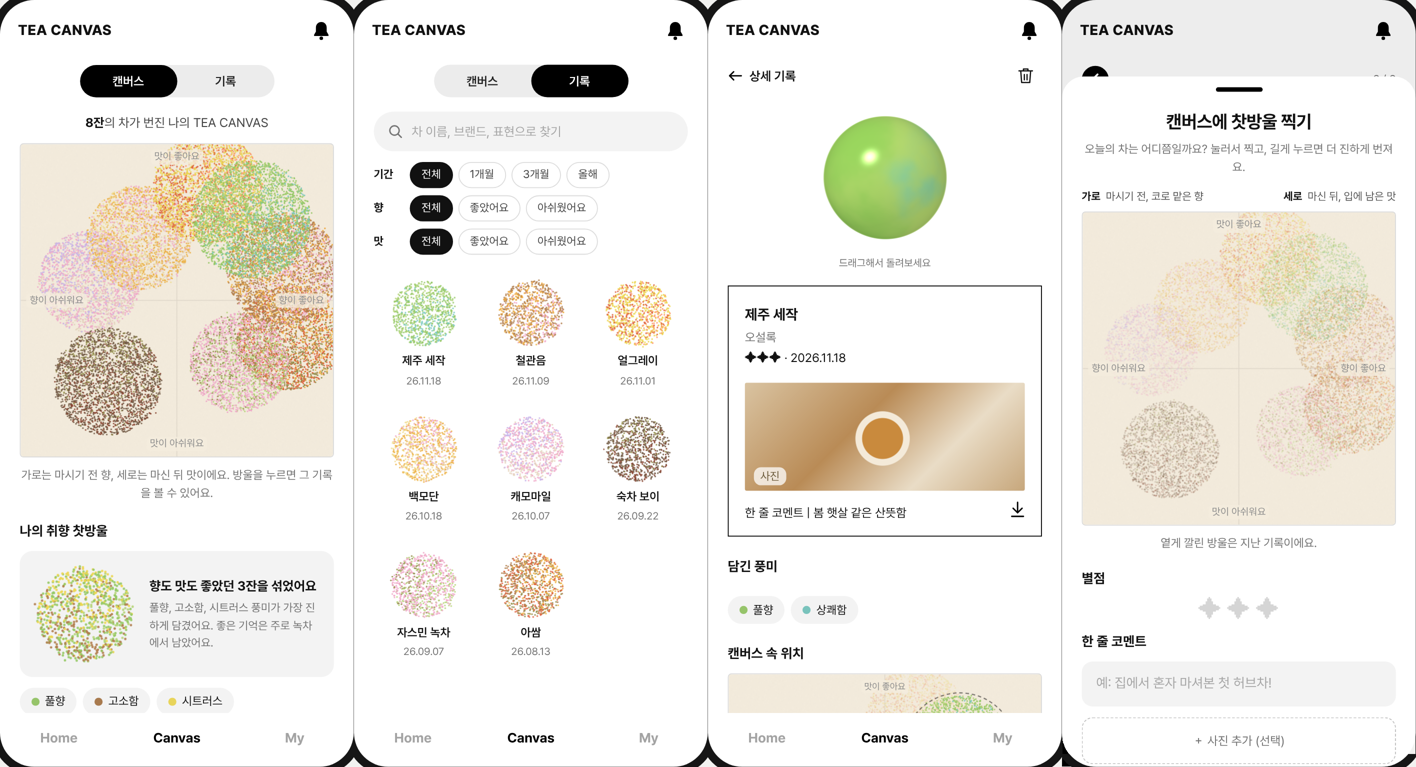
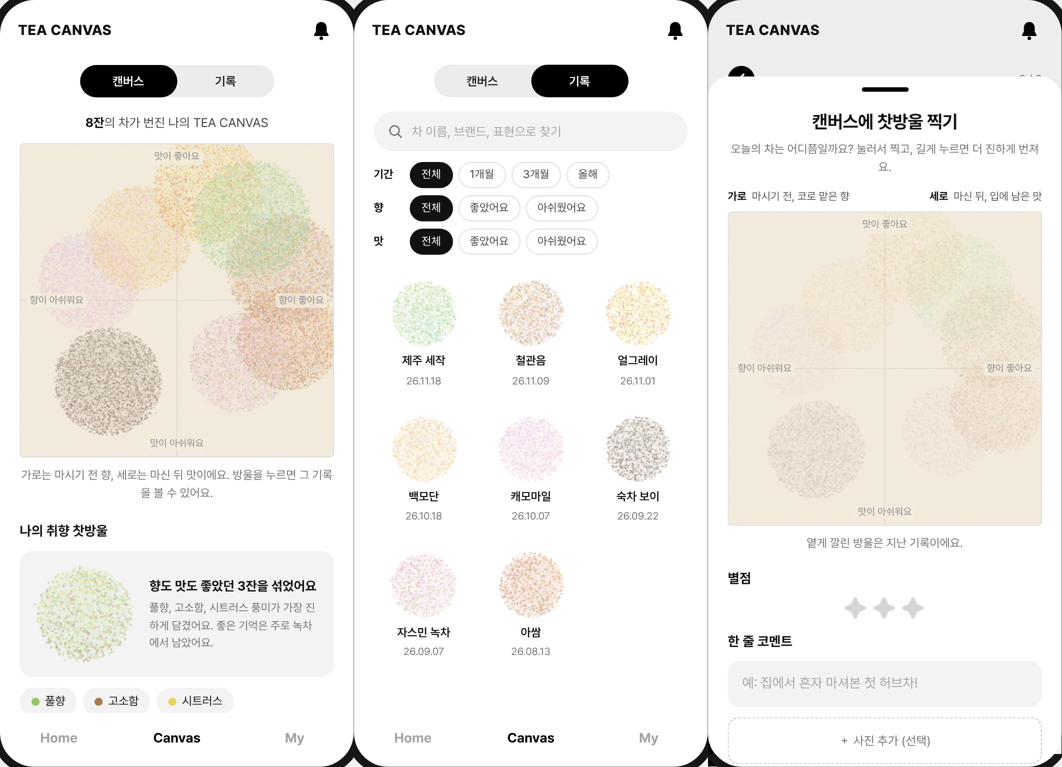
v3: 찻방울을 물처럼 투명하게 — 색을 밝게, 점은 반투명, 아래에 옅은 물빛
Claude-Session: https://claude.ai/code/session_01VYi7RYbVTTHX5Zvyr9oi23

diff --git a/TEA_CANVAS_prototype_v3.html b/TEA_CANVAS_prototype_v3.html
@@ -690,6 +690,8 @@ const WC = (()=>{
    점마다 그 자리의 색 비중대로 색을 고른다: 강한 색은 가운데, 약한 색은 가장자리. 흐림 없음.
    ========================================================= */
 const CANVAS_BG='#F4ECDD';
+/* 물처럼 투명하게: 색을 밝게 들어 올리고, 점은 반투명, 아래에 아주 옅은 물빛을 깐다 */
+const WATER={lift:.28,sat:1.05,dotA:.42,wash:.16};
 const DD=(()=>{
   const hex=h=>{ const n=parseInt(h.slice(1),16); return [(n>>16&255)/255,(n>>8&255)/255,(n&255)/255]; };
   const lift=(c,l=.04,s=1.15)=>{ const L=.2126*c[0]+.7152*c[1]+.0722*c[2]; return c.map(v=>{ v=Math.max(0,Math.min(1,L+(v-L)*s)); return v+(1-v)*l; }); };
@@ -698,8 +700,8 @@ const DD=(()=>{
   function zones(drop){
     if(ZC.has(drop.id)) return ZC.get(drop.id);
     const r=WC.rng(WC.hash(drop.id+'z')), tot=drop.comps.reduce((s,c)=>s+c.w,0), cs=[...drop.comps].sort((a,b)=>b.w-a.w), a0=r()*6.283;
-    const Z=cs.map((c,i)=>{ const share=c.w/tot, col=css(lift(hex(c.c))); if(i===0) return {col,share,x:0,y:0,s:.7};
-      const a=a0+(i-1)*6.283/Math.max(1,cs.length-1)+(r()-.5)*.6, d=.4*(1-share*.8); return {col,share,x:Math.cos(a)*d,y:Math.sin(a)*d,s:.55*(.7+share)}; });
+    const Z=cs.map((c,i)=>{ const share=c.w/tot, rgb=lift(hex(c.c),WATER.lift,WATER.sat), col=css(rgb); if(i===0) return {col,rgb,share,x:0,y:0,s:.7};
+      const a=a0+(i-1)*6.283/Math.max(1,cs.length-1)+(r()-.5)*.6, d=.4*(1-share*.8); return {col,rgb,share,x:Math.cos(a)*d,y:Math.sin(a)*d,s:.55*(.7+share)}; });
     ZC.set(drop.id,Z); return Z;
   }
   // 점 목록(반지름 1 기준) — 기록마다 늘 같은 모양
@@ -717,7 +719,13 @@ const DD=(()=>{
   function draw(ctx,drop,cx,cy,R,prog=1,alpha=1,dot=null){
     const d=dot||Math.max(.7,ctx.canvas.width*.0026), N=Math.max(60,Math.min(9000,Math.round(R*R/(d*d)*.62))), P=points(drop,N);
     const e=1-Math.pow(1-Math.min(1,prog),3);
-    ctx.save(); ctx.globalAlpha=.9*alpha;
+    const Z=zones(drop), e0=prog<1?(.6+.4*e):1;
+    // 물빛: 방울 자리에 찻물 색을 아주 옅게 깔아, 점 사이가 비지 않고 물에 비친 듯 보이게
+    ctx.save(); const g=ctx.createRadialGradient(cx,cy,0,cx,cy,R*e0); const c0=Z[0].rgb;
+    const rg=a=>`rgba(${Math.round(c0[0]*255)},${Math.round(c0[1]*255)},${Math.round(c0[2]*255)},${a})`;
+    g.addColorStop(0,rg(WATER.wash*alpha*Math.min(1,prog*1.5))); g.addColorStop(.85,rg(WATER.wash*.8*alpha*Math.min(1,prog*1.5))); g.addColorStop(1,rg(0));
+    ctx.fillStyle=g; ctx.beginPath(); ctx.arc(cx,cy,R*e0,0,6.2832); ctx.fill(); ctx.restore();
+    ctx.save(); ctx.globalAlpha=WATER.dotA*alpha;
     let last=null;
     for(const q of P){ if(prog<1&&q.o>e*1.05) continue; const s=prog<1?(.6+.4*e):1;
       if(q.c!==last){ ctx.fillStyle=q.c; last=q.c; } ctx.beginPath(); ctx.arc(cx+q.x*R*s,cy+q.y*R*s,d,0,6.2832); ctx.fill(); }
